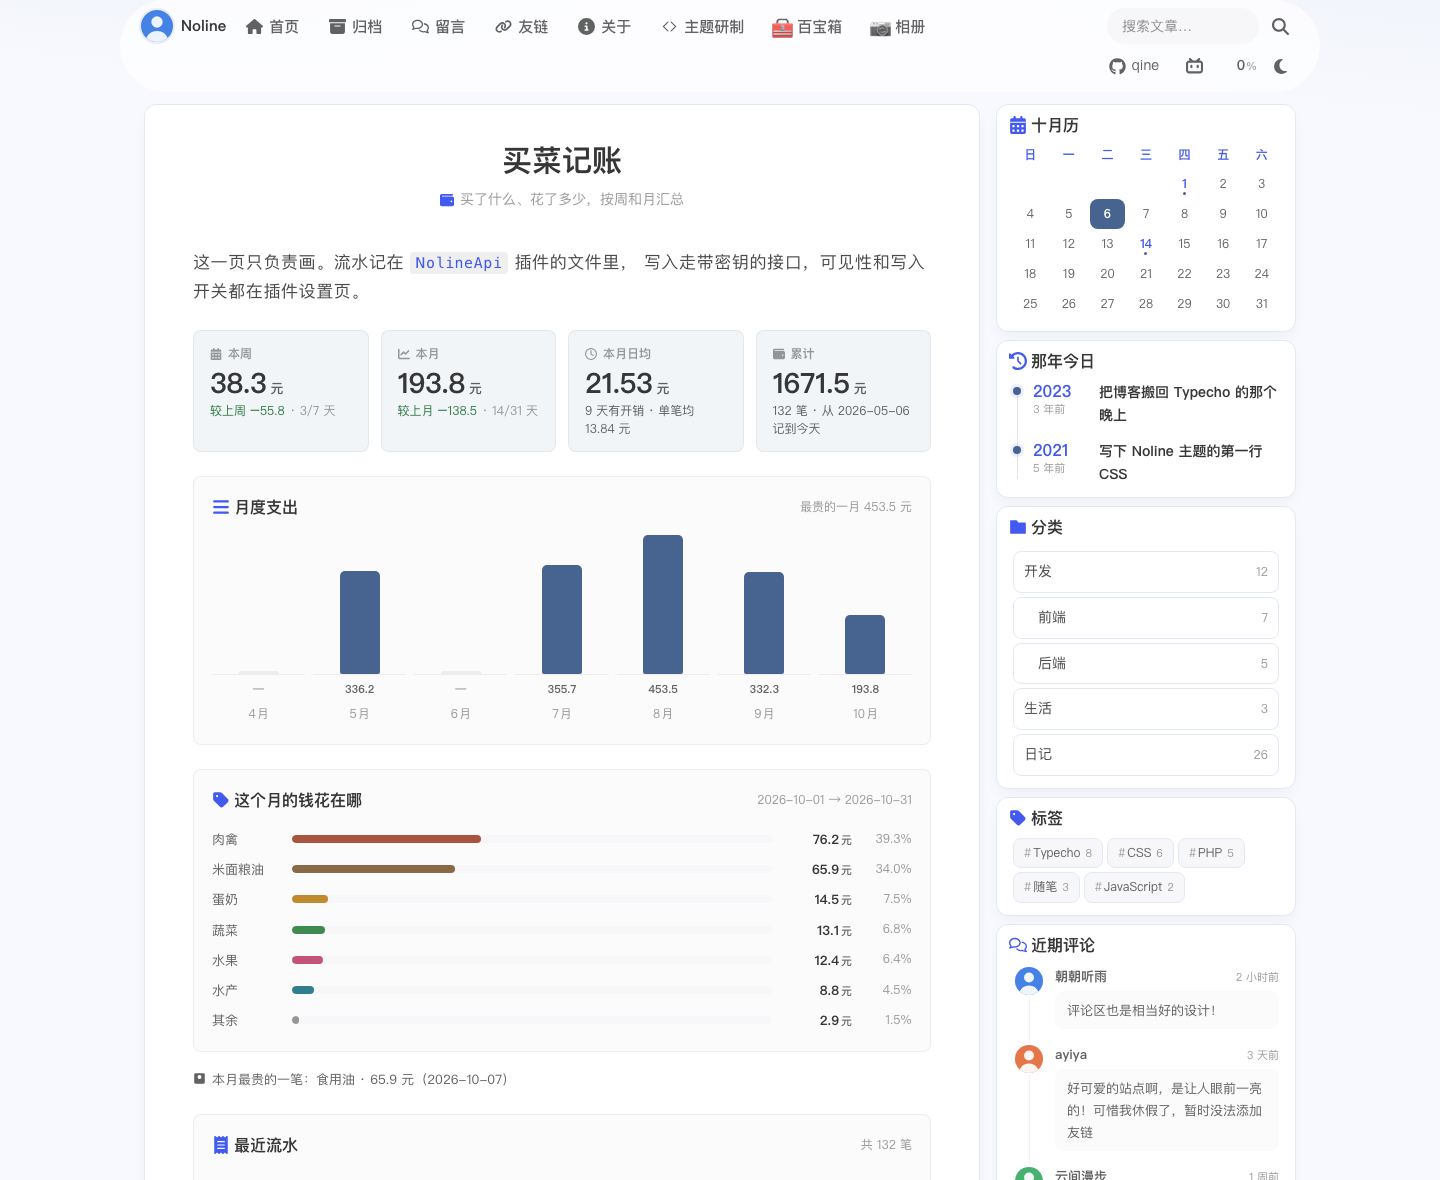
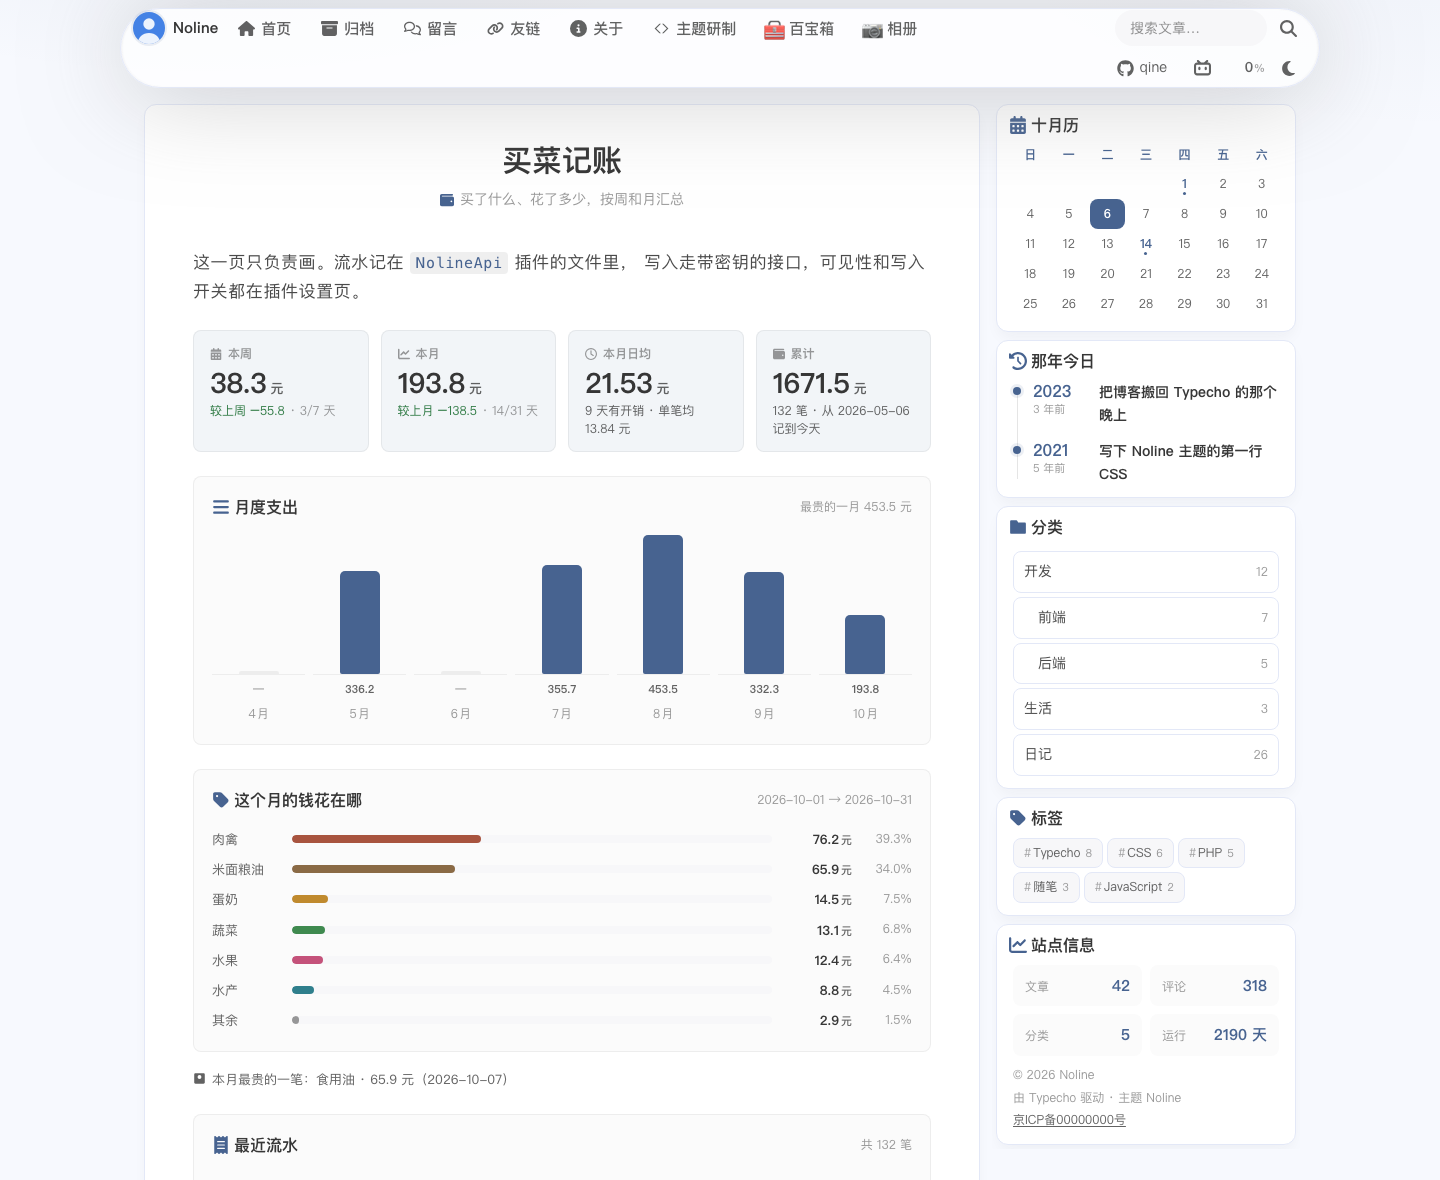
主题 1.34.0 / 插件 1.9.3：单篇文章和独立页的右栏不放近期评论
正文下面本来就是这篇文章自己的评论区，右栏再来一份是重复；
文章页右栏还要跟着滚目录，越短越好。查询也一起关在门外，
不给 single 页白跑一次 Widget_Comments_Recent。

diff --git a/_dev/mkpreview.py b/_dev/mkpreview.py
@@ -324,7 +324,46 @@ SIDEBAR = """        <aside class="sidebar">
             <div class="sidebar-sticky">
 
 __TOC__
+__RECENT__
+
                 <div class="card card-widget">
+                    <div class="card-header">{{icon:chart-line}}站点信息</div>
+                    <div class="site-stats">
+                        <span class="site-stat">文章<b data-count="42">42</b></span>
+                        <span class="site-stat">评论<b data-count="318">318</b></span>
+                        <span class="site-stat">分类<b data-count="5">5</b></span>
+                        <span class="site-stat">运行<b data-count="2190">2190 天</b></span>
+                    </div>
+                    <div class="site-footer-note">
+                        <p>&copy; 2026 Noline</p>
+                        <p>由 Typecho 驱动 · 主题 Noline</p>
+                        <p><a href="https://beian.miit.gov.cn/">京ICP备00000000号</a></p>
+                    </div>
+                </div>
+
+            </div>
+
+        </aside>
+"""
+
+
+# 目录卡：模板里被 $this->is('single') 挡着，所以只有 post/health 两份夹具有它，
+# index 与 page2/page3 替换成空串——列表页压根不该出现这张卡。
+# 里面只有模板那层空 <ol>：条目和标题 id 都是 main.js 现场搭的，夹具在浏览器里
+# 打开时会跑一遍真的 initToc。健康页正文只有一两个 h2，正好当「少于两个标题
+# 整张卡保持 hidden」那条分支的反例。
+TOC_CARD = """                <div class="card card-widget sidebar-toc" id="sidebar-toc" hidden>
+                    <div class="card-header">{{icon:bars}}目录</div>
+                    <nav class="toc-content" id="toc-content" aria-label="文章目录">
+                        <ol class="toc-list" id="toc-list"></ol>
+                    </nav>
+                </div>
+"""
+
+# 近期评论卡：模板里被 !$this->is('single') 挡着——单篇文章和各类独立页正文下面就是
+# 自己的评论区，右栏再来一份是重复。所以只有 index / page2 / page3 三份夹具有它，
+# post / health / bills / showcase 替换成空串。
+RECENT_CARD = """                <div class="card card-widget">
                     <div class="card-header">{{icon:comments}}近期评论</div>
                     <div class="rcomment-list">
                         <a class="rcomment-item" href="./post.html#comment-1">
@@ -358,39 +397,6 @@ __TOC__
                             </span>
                         </a>
                     </div>
-                </div>
-
-                <div class="card card-widget">
-                    <div class="card-header">{{icon:chart-line}}站点信息</div>
-                    <div class="site-stats">
-                        <span class="site-stat">文章<b data-count="42">42</b></span>
-                        <span class="site-stat">评论<b data-count="318">318</b></span>
-                        <span class="site-stat">分类<b data-count="5">5</b></span>
-                        <span class="site-stat">运行<b data-count="2190">2190 天</b></span>
-                    </div>
-                    <div class="site-footer-note">
-                        <p>&copy; 2026 Noline</p>
-                        <p>由 Typecho 驱动 · 主题 Noline</p>
-                        <p><a href="https://beian.miit.gov.cn/">京ICP备00000000号</a></p>
-                    </div>
-                </div>
-
-            </div>
-
-        </aside>
-"""
-
-
-# 目录卡：模板里被 $this->is('single') 挡着，所以只有 post/health 两份夹具有它，
-# index 与 page2/page3 替换成空串——列表页压根不该出现这张卡。
-# 里面只有模板那层空 <ol>：条目和标题 id 都是 main.js 现场搭的，夹具在浏览器里
-# 打开时会跑一遍真的 initToc。健康页正文只有一两个 h2，正好当「少于两个标题
-# 整张卡保持 hidden」那条分支的反例。
-TOC_CARD = """                <div class="card card-widget sidebar-toc" id="sidebar-toc" hidden>
-                    <div class="card-header">{{icon:bars}}目录</div>
-                    <nav class="toc-content" id="toc-content" aria-label="文章目录">
-                        <ol class="toc-list" id="toc-list"></ol>
-                    </nav>
                 </div>
 """
 
@@ -1977,7 +1983,8 @@ def main():
                 .replace('__NAV__', page_nav(page, total))
                 .replace('__FEED__', FEED_STATUS)
                 .replace('__SIDEBAR__', SIDEBAR.rstrip('\n'))
-                .replace('__TOC__', ''))
+                .replace('__TOC__', '')
+                .replace('__RECENT__', RECENT_CARD.rstrip('\n')))
 
     index = list_body(INDEX_BODY, cards, 1, 3, 'index')
     render('index.html', '首页', index, is_home=True)
@@ -2027,23 +2034,23 @@ def main():
     hl = ('    <link rel="stylesheet" href="../css/atom-one-dark.min.css?v=__VERSION__">\n'
           '    <script defer src="../js/highlight.min.js?v=__VERSION__"></script>')
     render('post.html', '文章',
-           POST_BODY.replace('__SIDEBAR__', SIDEBAR.rstrip('\n')).replace('__TOC__', TOC_CARD.rstrip('\n')), hl)
+           POST_BODY.replace('__SIDEBAR__', SIDEBAR.rstrip('\n')).replace('__TOC__', TOC_CARD.rstrip('\n')).replace('__RECENT__', ''), hl)
 
     # 健康页：SVG 折线是 PHP 拼出来的，夹具里按同一套算法重算一遍，
     # 这样在浏览器里看到的坐标、圆点、涨跌配色和线上一致
     render('health.html', '健康记录',
-           health_page().replace('__SIDEBAR__', SIDEBAR.rstrip('\n')).replace('__TOC__', TOC_CARD.rstrip('\n')))
+           health_page().replace('__SIDEBAR__', SIDEBAR.rstrip('\n')).replace('__TOC__', TOC_CARD.rstrip('\n')).replace('__RECENT__', ''))
 
     # 记账页：周/月合计、柱高、占比条全部按插件里那套算法重算，
     # 六月一根空柱是故意留的——那个月一条没记，图上不能凭空少一格
     render('bills.html', '买菜记账',
-           bills_page().replace('__SIDEBAR__', SIDEBAR.rstrip('\n')).replace('__TOC__', TOC_CARD.rstrip('\n')))
+           bills_page().replace('__SIDEBAR__', SIDEBAR.rstrip('\n')).replace('__TOC__', TOC_CARD.rstrip('\n')).replace('__RECENT__', ''))
 
     # 项目展示页：六张表的内容直接从 showcase.php 的 PHP 字面量里解出来，
     # 页面上任何一句文案改了，夹具会跟着改，不会各写一份。
     # 这一页没有目录卡（正文不是长文章，右栏不需要跟着跳锚点），__TOC__ 置空。
     render('showcase.html', '项目展示',
-           showcase_page().replace('__SIDEBAR__', SIDEBAR.rstrip('\n')).replace('__TOC__', ''))
+           showcase_page().replace('__SIDEBAR__', SIDEBAR.rstrip('\n')).replace('__TOC__', '').replace('__RECENT__', ''))
 
     print('\n提醒：夹具在 noline/_preview/ 下，验证完必须删掉，不能随主题发布。')
 

diff --git a/public/sidebar.php b/public/sidebar.php
@@ -2,12 +2,14 @@
 <?php
 /**
  * 右栏。站点身份（头像/名字/座右铭）在顶栏品牌和首页头图（.site-hero）里，
- * 这里放组件卡：日历 / 那年今日 / 分类（后台开关，默认关）/ 标签 / 目录（仅文章页）/ 近期评论 / 站点信息。
+ * 这里放组件卡：日历 / 那年今日 / 分类（后台开关，默认关）/ 标签 / 近期评论（不出文章页）
+ * / 目录（仅文章页）/ 站点信息。
  *
  * 每张卡都挂 .card-widget：8px/12px 内缩 + 卡内 8px gap，标题是一枚强调色图标
  * 领一行粗字。图标按「这张卡在讲什么」挑，不是装饰——六个一样的圆点读不出区别。
  *
- * 尾部三张（目录 + 近期评论 + 站点信息）包在 .sidebar-sticky 里，是右栏唯一跟着页面滚的
+ * 尾部那几张（站点信息，加上按页面类型出现的目录 / 近期评论）包在 .sidebar-sticky 里，
+ * 是右栏唯一跟着页面滚的
  * 部分——列表改成无限加载之后正文会一直往下长，整栏都固定住的话前面四张滚走以后
  * 右栏就空了，整栏都不固定的话滚过一屏之后右栏又是空的。
  */
@@ -130,7 +132,11 @@ $stats    = noline_site_stats();
         </div>
         <?php endif; ?>
 
-        <!-- 近期评论：头像之间一条竖向发丝线，正文坐进浅灰气泡 -->
+        <!-- 近期评论：头像之间一条竖向发丝线，正文坐进浅灰气泡。
+             单篇文章/单页不放：正文下面就是它自己的评论区，右栏再来一份是重复，
+             而且文章页的右栏已经有目录要跟着滚，越短越好。
+             查询也一起关在这道门外——不给 single 页白跑一次 Widget_Comments_Recent。 -->
+        <?php if (!$this->is('single')): ?>
         <?php $this->widget('Widget_Comments_Recent', 'pageSize=5')->to($recent); ?>
         <?php if ($recent->have()): ?>
         <div class="card card-widget">
@@ -150,6 +156,7 @@ $stats    = noline_site_stats();
                 <?php endwhile; ?>
             </div>
         </div>
+        <?php endif; ?>
         <?php endif; ?>
 
         <!-- 站点信息 -->

diff --git a/_dev/adminfixture.py b/_dev/adminfixture.py
@@ -355,9 +355,9 @@ SETTINGS = '''
 
     <h3 class="nl-h3">在线更新</h3>
     <div class="nl-ver">
-      <span><b>1.32.0</b><em>主题</em></span>
+      <span><b>1.33.0</b><em>主题</em></span>
       <span class="nl-ver-arrow">→</span>
-      <span><b>1.33.0</b><em>Release · 2 小时前</em></span>
+      <span><b>1.34.0</b><em>Release · 2 小时前</em></span>
       <span class="nl-inline"><button class="btn btn-s primary" type="button">立即更新</button></span>
     </div>
     <details class="nl-log"><summary>上一次换装的记录</summary><pre>备份 usr/themes/noline → …
@@ -549,7 +549,7 @@ def plugins_page(gen):
     on = ('<tr id="plugin-NolineApi">\n'
           '<td>Noline 对外接口</td>\n'
           '<td>把主题设置、健康数据和买菜流水以 JSON 接口暴露出去。</td>\n'
-          '<td class="kit-hidden-mb">1.9.2</td>\n'
+          '<td class="kit-hidden-mb">1.9.3</td>\n'
           '<td class="kit-hidden-mb"><a href="###">qine233</a></td>\n'
           '<td><a href="###">设置</a> &bull; <a href="###">禁用</a></td>\n</tr>\n')
     off = ('<tr id="plugin-HelloWorld">\n<td>Hello Word</td>\n<td>一个示例插件。</td>\n'

diff --git a/plugins/NolineApi/Plugin.php b/plugins/NolineApi/Plugin.php
@@ -27,13 +27,13 @@ if (!defined('__TYPECHO_ROOT_DIR__')) {
  *
  * @package NolineApi
  * @author 州州
- * @version 1.9.2
+ * @version 1.9.3
  * @link https://ui.zhouzhou.work/
  */
 class Plugin implements PluginInterface
 {
     /** 改这里要同时改文件头注释里的 @version，后台插件列表读的是注释 */
-    public const VERSION = '1.9.2';
+    public const VERSION = '1.9.3';
 
     /** 数据目录放在 uploads 下，不在主题目录内，升级主题不会清空记录 */
     private const DATA_DIR = '/usr/uploads/noline_api';

diff --git a/functions.php b/functions.php
@@ -4,7 +4,7 @@ if (!defined('__TYPECHO_ROOT_DIR__')) exit;
 /**
  * 主题版本号。同时用作静态资源的缓存指纹（?v=），改版本即可强制刷新客户端缓存。
  */
-define('NOLINE_VERSION', '1.33.0');
+define('NOLINE_VERSION', '1.34.0');
 
 /* ==========================================================================
    后台设置

diff --git a/index.php b/index.php
@@ -4,7 +4,7 @@
  *
  * @package Noline
  * @author QINE
- * @version 1.33.0
+ * @version 1.34.0
  * @link https://www.idkzr.com/
  */
 

diff --git a/README.md b/README.md
@@ -1,6 +1,6 @@
 # Noline
 
-> 一个克制、令牌驱动的 Typecho 主题，配一个可选的 REST 接口插件。当前版本 **1.33.0**。
+> 一个克制、令牌驱动的 Typecho 主题，配一个可选的 REST 接口插件。当前版本 **1.34.0**。
 
 Noline 主张「一条 1px 蓝灰线就够了」：卡片层次靠留白、12px 圆角、`#e3e8f7` 描边和一层几乎
 看不见的浅投影划分，不上重阴影、不上渐变。所有颜色集中在 `:root`，浅色深色各一套，强调色在
@@ -112,7 +112,9 @@ Noline 主张「一条 1px 蓝灰线就够了」：卡片层次靠留白、12px 
 
 ### 右栏
 - 双列 `card-widget` 骨架：月历、那年今日、分类、标签、目录、近期评论、站点信息；
-  其中分类卡是可选的（后台开关，默认关——分类已经在信息流顶上那条吸顶药丸条里出现过一次）。
+  其中分类卡是可选的（后台开关，默认关——分类已经在信息流顶上那条吸顶药丸条里出现过一次），
+  近期评论不在单篇文章和各类独立页上出（正文下面就是它自己的评论区，右栏再来一份是重复），
+  那一栏的查询也跟着一起跳过。
 - 尾部 sticky，滚动时跟着走。
 - 重查询（分类统计、那年今日等）**按天缓存**到 `usr/uploads/noline_cache`，发新文章会主动失效。
 
@@ -323,10 +325,10 @@ DELETE /api/bills/records?id=     按 id 删一条
 
 ```bash
 python3 _dev/build.py            # 本地先过一遍门槛
-git tag -a 1.33.0 -m "1.33.0" && git push origin ai-1.0 --follow-tags
+git tag -a 1.34.0 -m "1.34.0" && git push origin ai-1.0 --follow-tags
 ```
 
-tag 名用 `1.33.0` 或 `v1.33.0`（工作流只认这两种形状），且必须等于 `NOLINE_VERSION`。
+tag 名用 `1.34.0` 或 `v1.34.0`（工作流只认这两种形状），且必须等于 `NOLINE_VERSION`。
 后台「主题管理 → 主题与插件更新」读的是 `releases/latest` 那个附件，所以**没有 `noline.zip` 的 Release
 等于没发布**：页面会报「这个 Release 没有 noline.zip 附件」。
 也可以不推 tag，直接在 Actions 页手动运行工作流、手填 tag。
